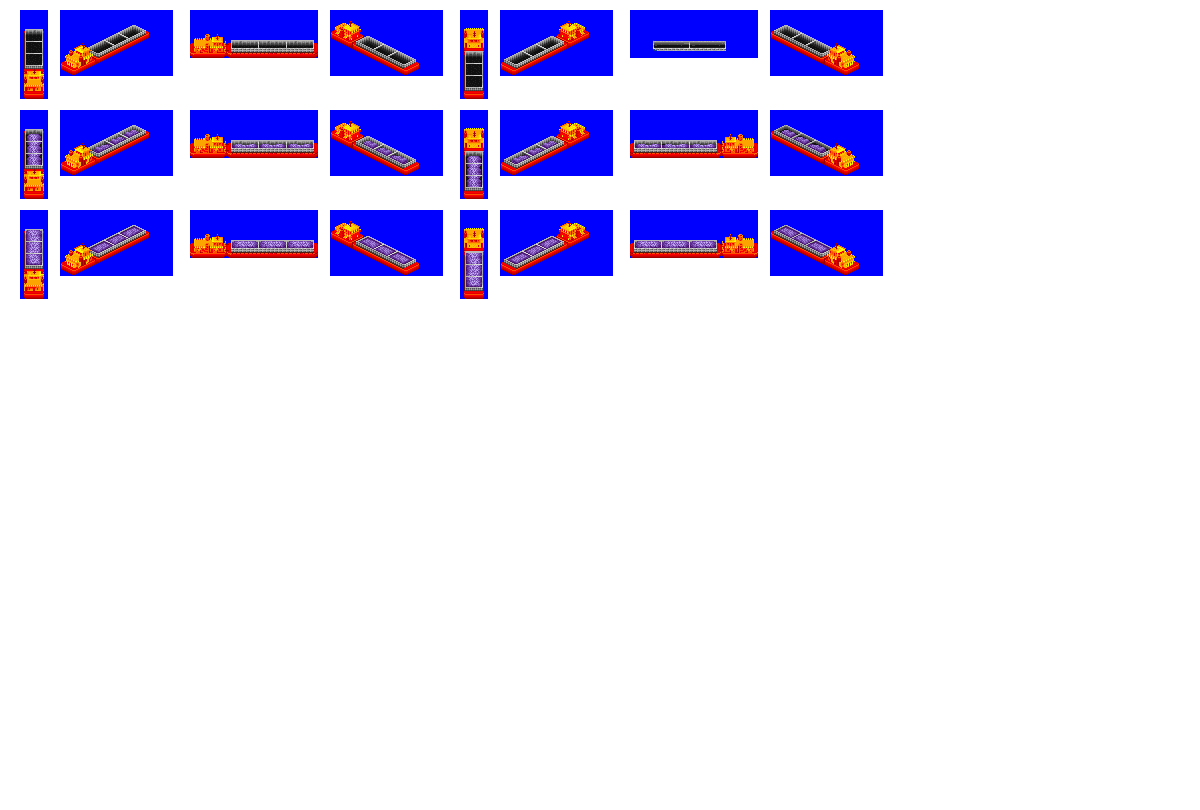
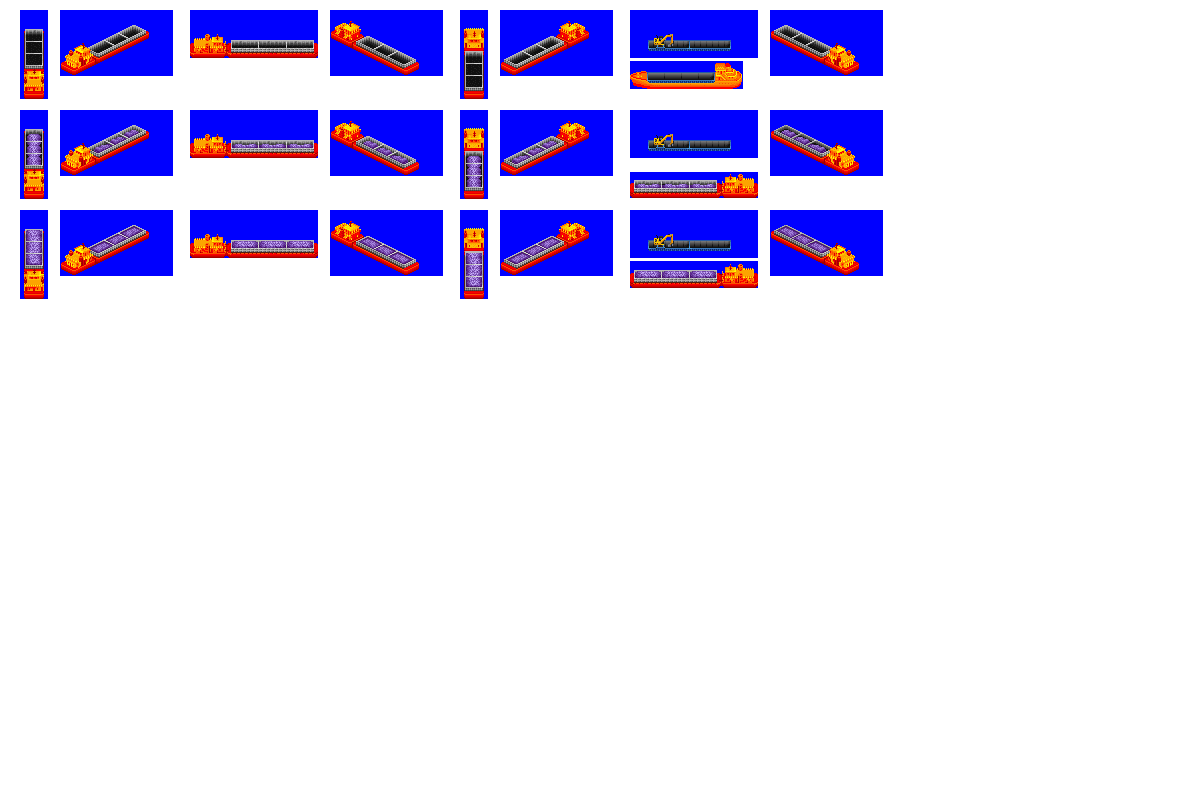
Change: WIP on Bulk Ships

Changed region(s): [[0.5242, 0.2778, 0.6475, 0.3704], [0.5242, 0.1543, 0.6475, 0.2469], [0.5242, 0.0309, 0.6167, 0.1235]]

diff --git a/src/render_docs.py b/src/render_docs.py
@@ -71,10 +71,13 @@ class DocHelper(object):
 
     def unpack_name_suffix(self, name_suffix):
         # this duplicates a method on Ship, which isn't available in tech tree row header cells as no ship is in scope
-        return base_lang_strings["STR_NAME_" + name_suffix.upper()]
+        try:
+            return base_lang_strings["STR_NAME_" + name_suffix.upper()]
+        except:
+            utils.echo_message("Can't return name suffix for " + name_suffix)
+            return "CABBAGE"
 
     def unpack_name_string(self, ship):
-        # doesn't include the power type suffix
         return ship._name + " " + self.unpack_name_suffix(ship.base_id)
 
     def get_props_to_print_in_code_reference(self, subclass):

diff --git a/src/ship.py b/src/ship.py
@@ -386,6 +386,15 @@ class BulkBase(Ship):
         self.gestalt_graphics = GestaltGraphicsVisibleCargo(
             bulk=True, hull_recolour_map=graphics_constants.hull_recolour_CC1, house_recolour_map=house_recolour_map
         )
+    @property
+
+    def name_suffix_as_string_name(self):
+        # used in ship name string only
+        # may be over-ridden in subclasses
+        if self.gen < 3:
+            return "STR_NAME_COLLIER"
+        else:
+            return "STR_NAME_MINI_BULKER"
 
 
 class BulkBarge(BulkBase):

diff --git a/src/vehicles/bulk_ships.py b/src/vehicles/bulk_ships.py
@@ -3,6 +3,16 @@ from ship import BulkShip
 
 def main():
     ship = BulkShip(
+        numeric_id=51,
+        name="Dyna",
+        gen=2,
+        subtype="E",
+        hull="TempHouseNone",
+        effect_type="EFFECT_SPRITE_DIESEL",
+        sprites_complete=False,
+    )
+
+    ship = BulkShip(
         numeric_id=54,
         name="Saltlick",
         gen=3,

diff --git a/src/vehicles/bulk_barges.py b/src/vehicles/bulk_barges.py
@@ -33,16 +33,6 @@ def main():
     )
 
     ship = BulkBarge(
-        numeric_id=52,
-        name="Dyna",
-        gen=2,
-        subtype="E",
-        hull="PushBargeHouseRear",
-        effect_type="EFFECT_SPRITE_DIESEL",
-        sprites_complete=False,
-    )
-
-    ship = BulkBarge(
         numeric_id=9,
         name="Bigrock",
         gen=2,

diff --git a/src/vehicles/tanker_ships.py b/src/vehicles/tanker_ships.py
@@ -7,7 +7,7 @@ def main():
         name="Chirikov",
         gen=2,
         subtype="E",
-        hull="ShipHouseRear",
+        hull="TempHouseNone",
         str_type_info="SMALL_TANKER_COASTAL_INLAND",
         effect_type="EFFECT_SPRITE_DIESEL",
         sprites_complete=False,
